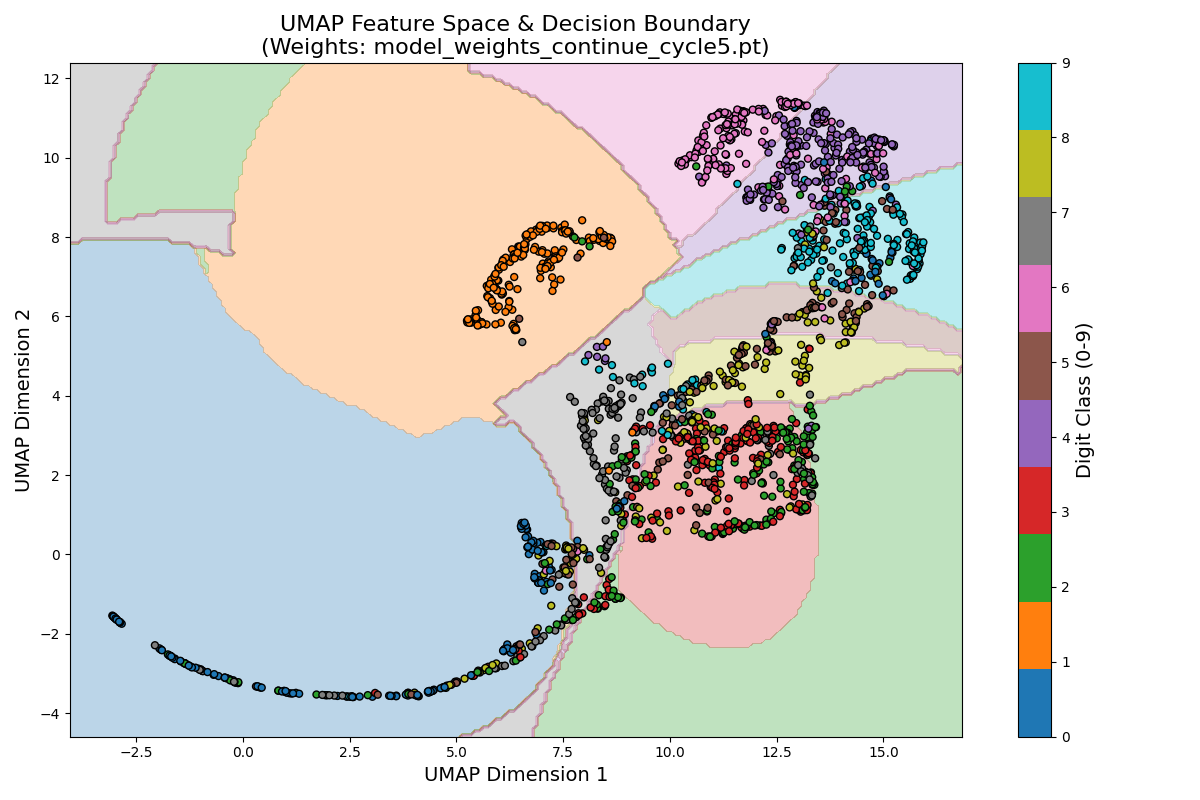
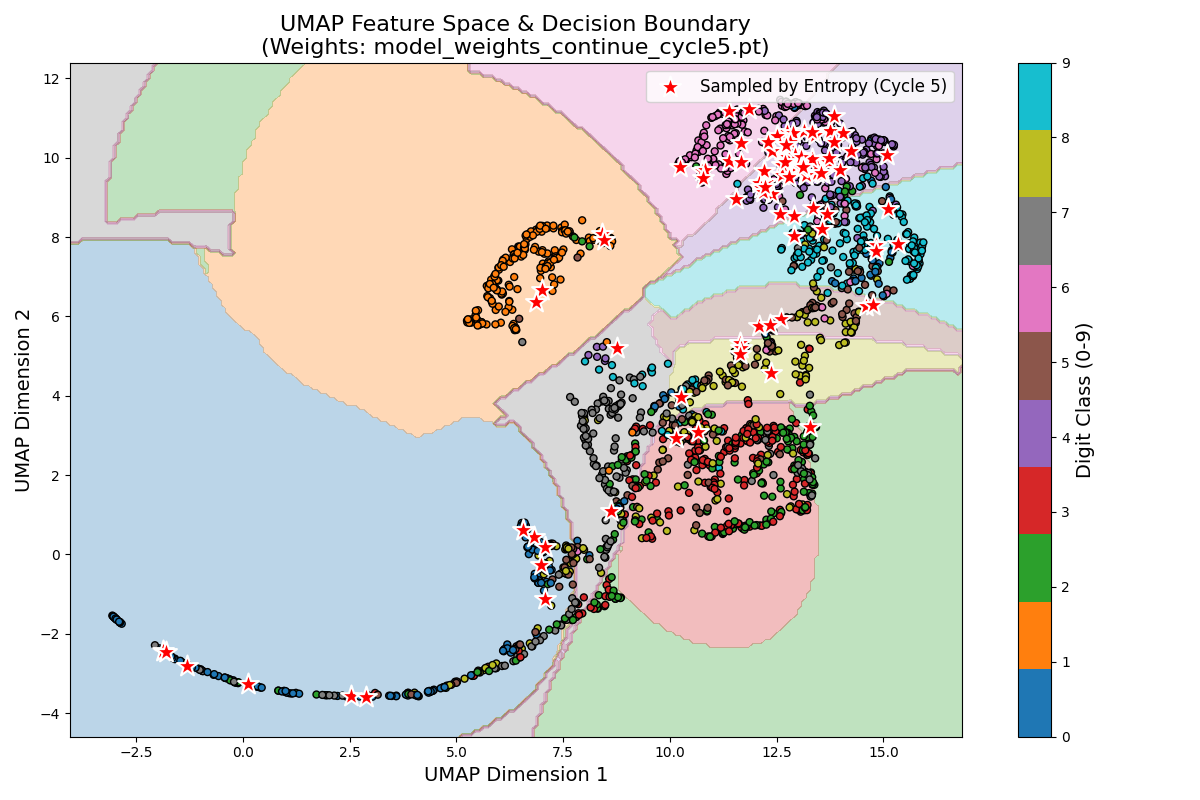
グラフの見え方を変更

diff --git a/visualize.py b/visualize.py
@@ -123,7 +123,7 @@ def main():
     print("グラフを描画中...")
     plt.figure(figsize=(12, 8))
     plt.contourf(xx, yy, Z, alpha=0.3, cmap='tab10',levels=np.arange(-0.5,10.5,1), vmin=0, vmax=9)  #決定境界を背景色として淡く塗る
-    scatter = plt.scatter(features_2d[:, 0], features_2d[:, 1], c=labels, edgecolor='k', s=25, cmap='tab10', vmin=0, vmax=9, alpha=0.3)  #特徴点をクラスごとに色分けしてプロット
+    scatter = plt.scatter(features_2d[:, 0], features_2d[:, 1], c=labels, edgecolor='k', s=25, cmap='tab10', vmin=0, vmax=9)  #特徴点をクラスごとに色分けしてプロット
     
     #アノテーションされたデータを赤色の星マークで表示
     if annotated_features_2d is not None:
